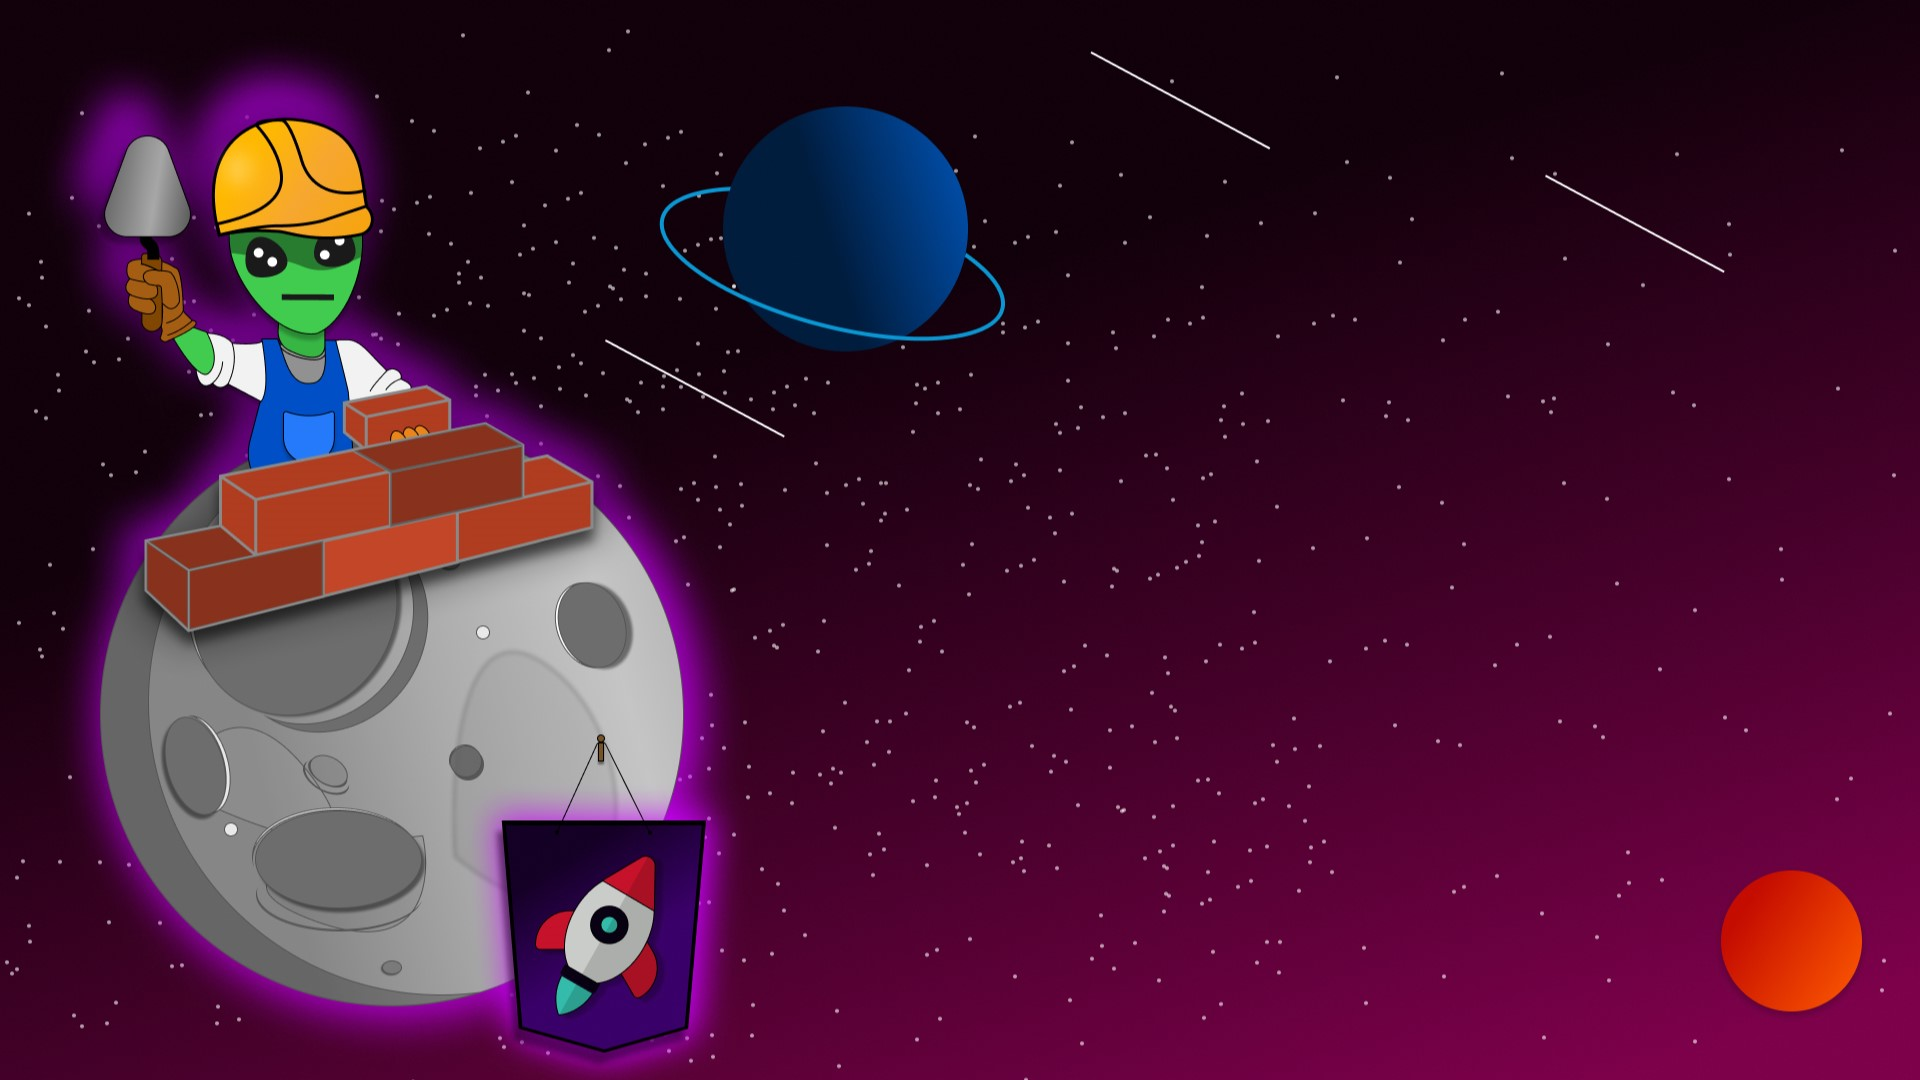
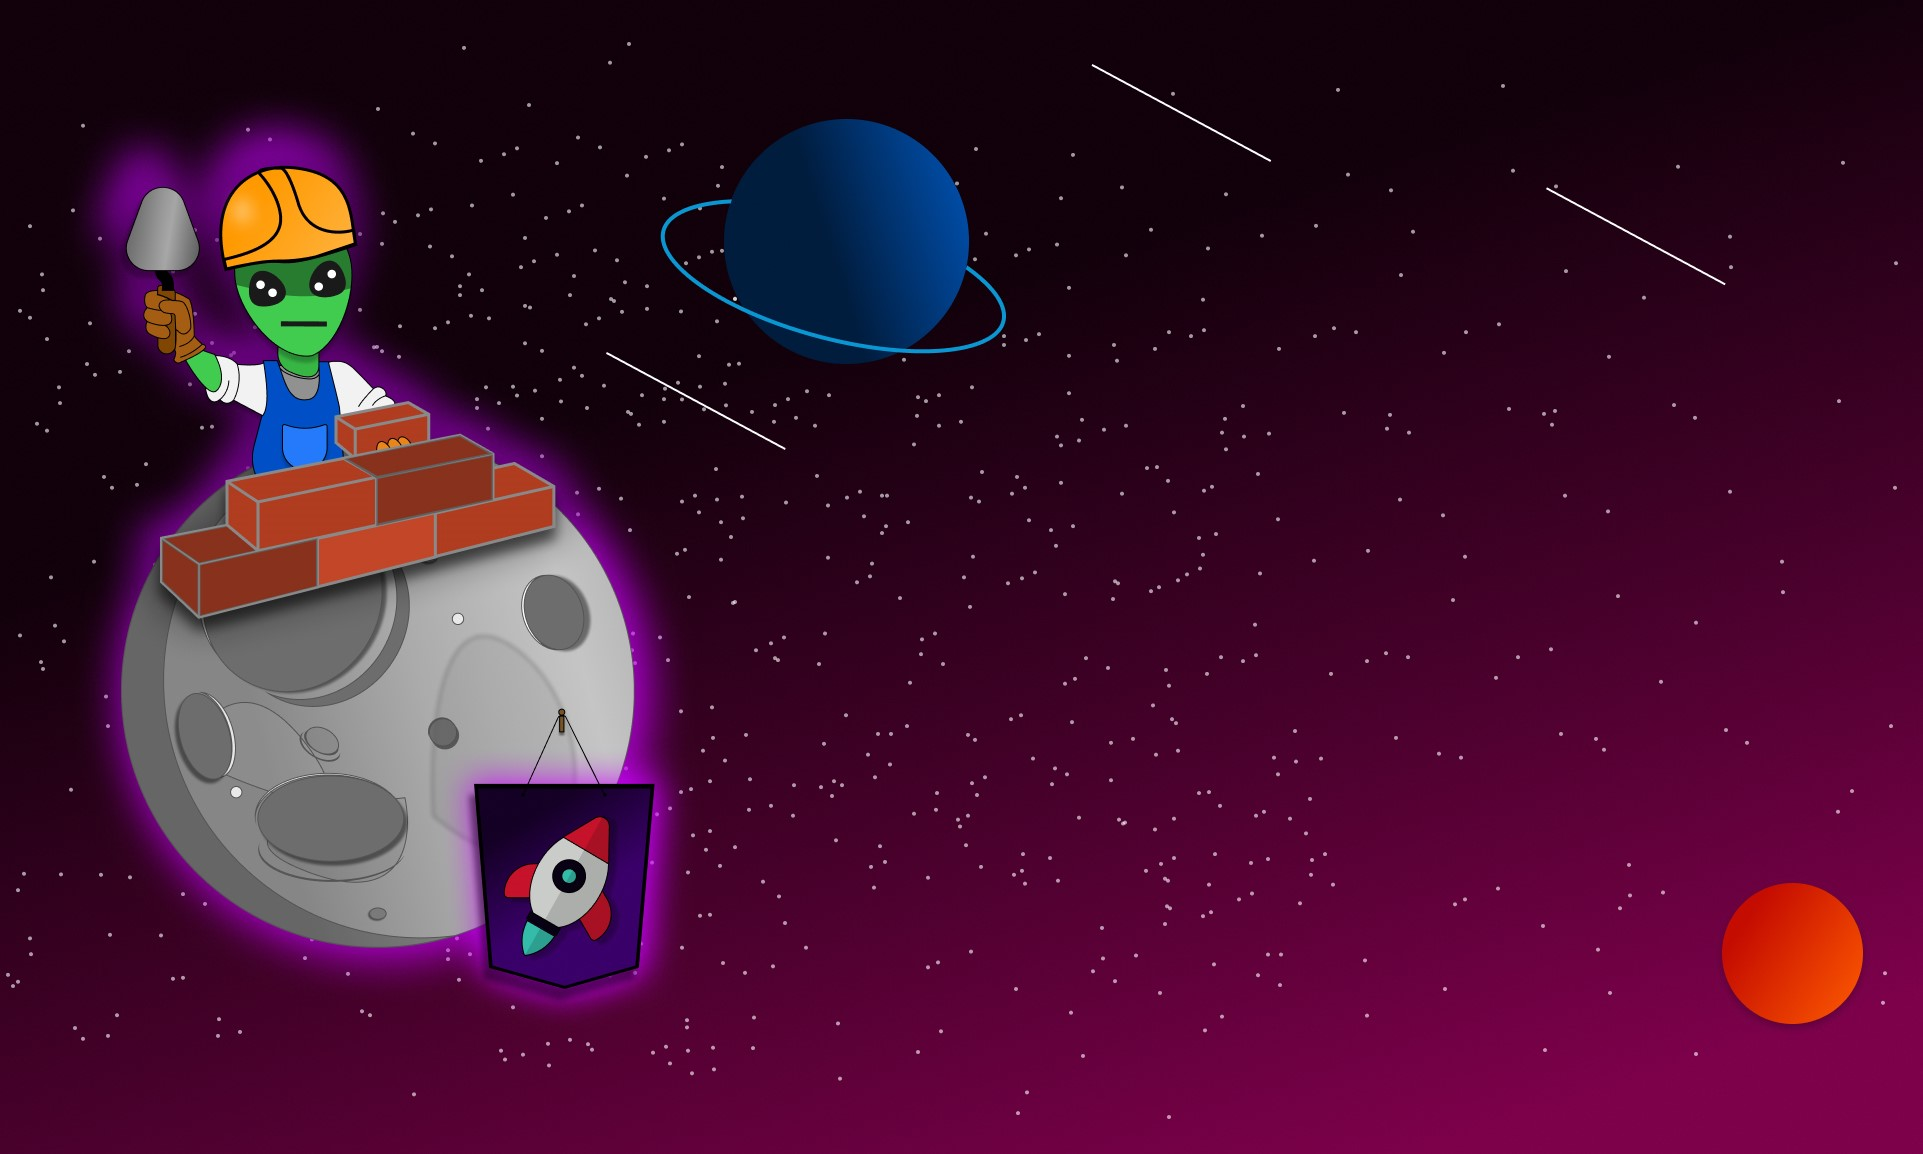
organizei os elementos, farei o estilo agora

diff --git a/css/erro.css b/css/erro.css
@@ -1,2 +1,51 @@
 @charset "UTF-8";
+@import url('https://fonts.googleapis.com/css2?family=Roboto:ital,wght@0,100;0,300;0,400;0,500;0,700;0,900;1,100;1,300;1,400;1,500;1,700;1,900&display=swap');
+@import url('https://fonts.googleapis.com/css2?family=Akshar:wght@300..700&display=swap');
+@import url('https://fonts.googleapis.com/css2?family=RocknRoll+One&display=swap');
 
+:root{
+    --cor01: #D52CFF;
+    --cor02: #500191;
+    --fonte00: 'Roboto', sans-serif;
+    --fonte01: 'Akshar', sans-serif;
+    --fonte02: 'RocknRoll', sans-serif;
+}
+
+*{
+    margin: 0px;
+    padding: 0px;
+}
+
+body{
+    background: black url(../imagens/Background-404.jpg) center center no-repeat fixed;
+    background-size: cover;
+}
+
+
+
+
+
+
+h1{
+    font-family: var(--fonte01);
+    color: white;
+}
+
+
+#titulo p{
+    font-family: var(--fonte00);
+    color: var(--cor01)
+}
+
+
+
+#cont p{
+    font-family: var(--fonte00);
+    color: white;
+}
+
+
+#texto{
+    color: white;
+    font-family: var(--fonte00);
+}

diff --git a/erro.html b/erro.html
@@ -6,9 +6,20 @@
     <title>Erro 404</title>
     <link rel="stylesheet" href="css/erro.css">
     <link rel="shortcut icon" href="imagens/Foguete.ico" type="image/x-icon">
-    <link href="https://fonts.googleapis.com/icon?family=Material+Icons" rel="stylesheet">
+    <link rel="stylesheet" href="https://fonts.googleapis.com/css2?family=Material+Symbols+Outlined:opsz,wght,FILL,GRAD@20..48,100..700,0..1,-50..200" />
 </head>
 <body>
-    
+    <main>
+        <div id="conteudo">
+            <h1>404</h1>
+            <section id="titulo">
+                <p>Página não encontrada!</p>
+            </section>
+            <section id="cont">
+                <p>Ela pode não existir ou pode estar em construção <!-- <br> (essa não é uma página verdadeira de erro 404)</p> -->
+                <div id="texto"> <span class="material-symbols-outlined">chevron_left</span> Voltar para a Landing Page</div>
+            </section>
+        </div>
+    </main>
 </body>
 </html>
